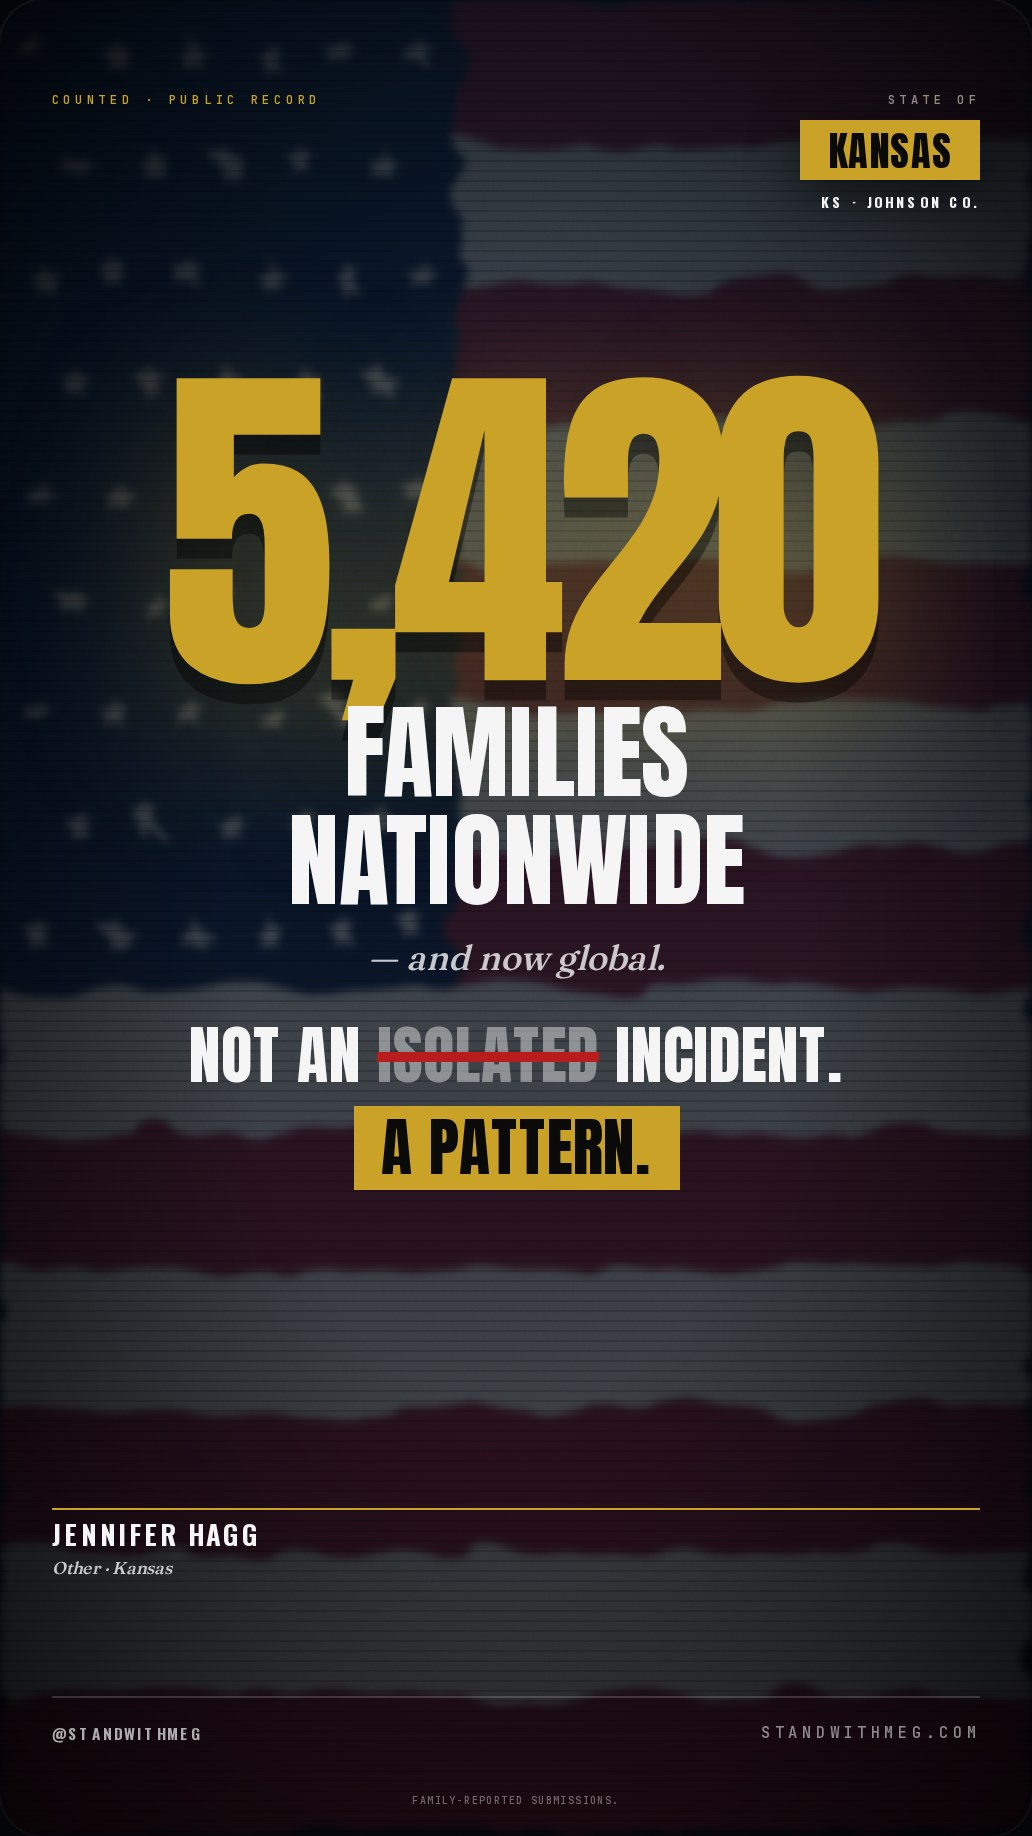
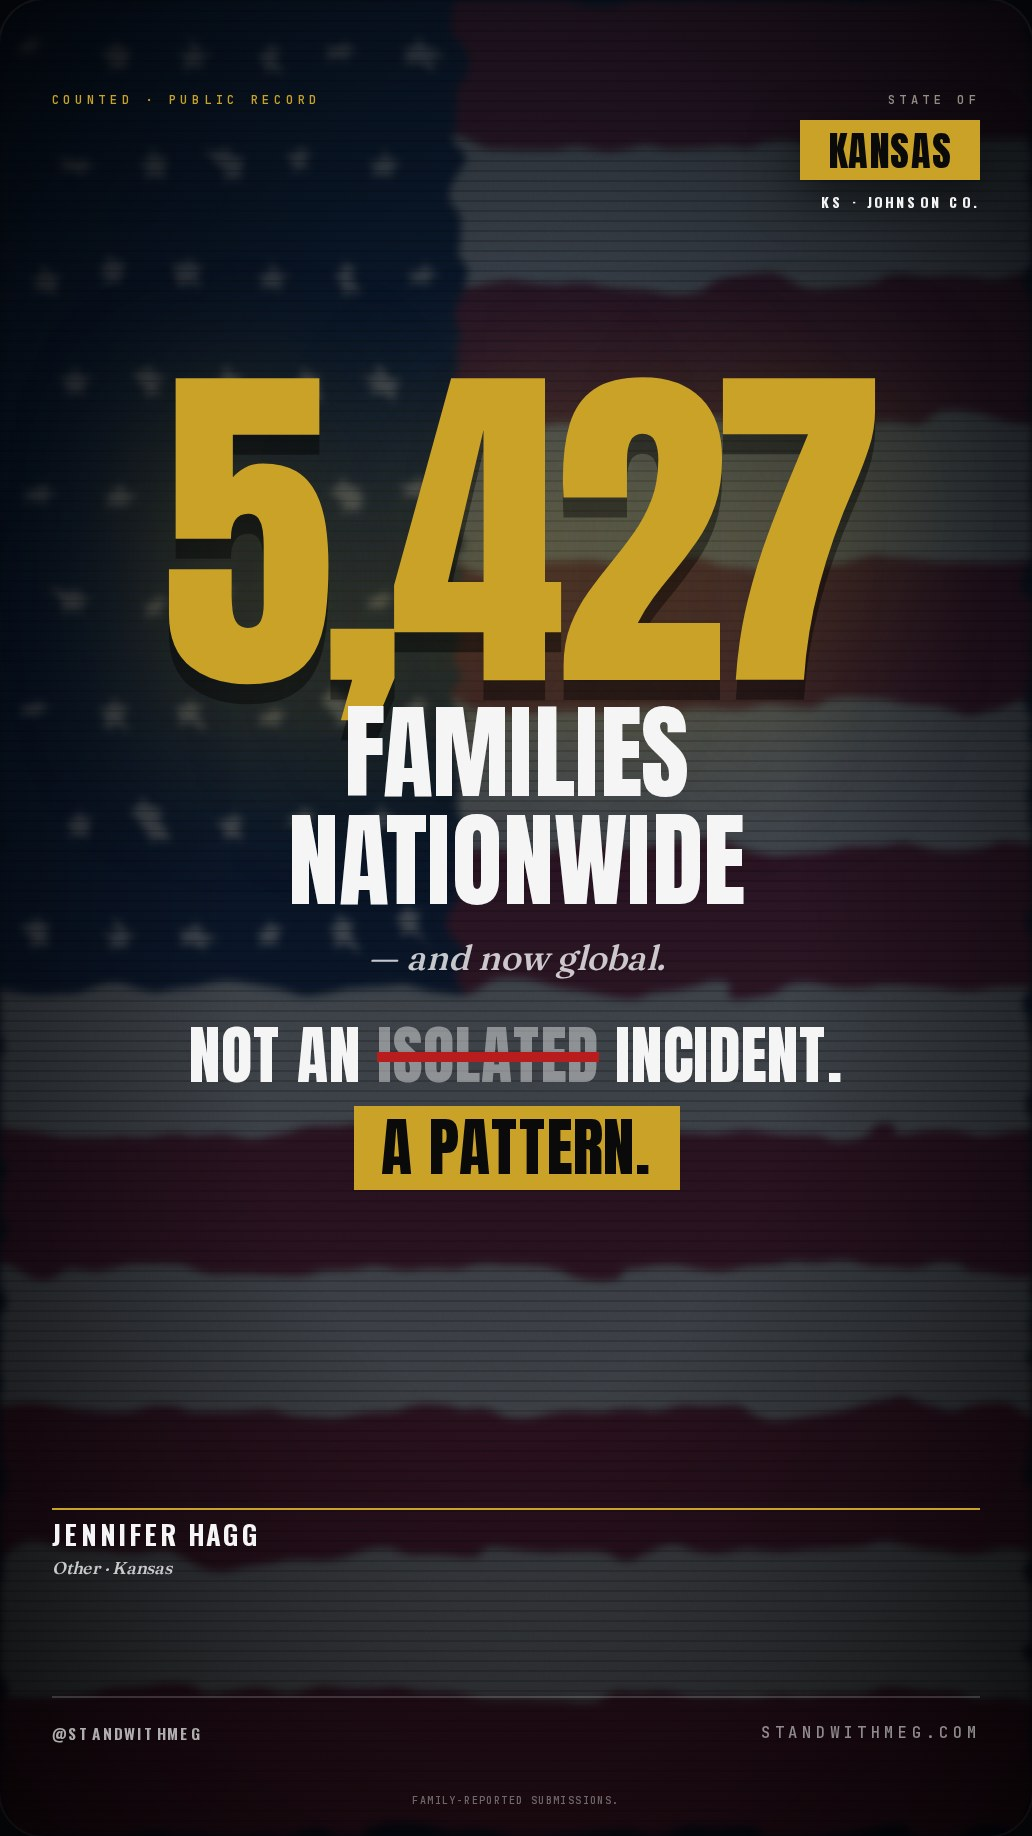
chore: auto-regenerate 10 report/share file(s) from live Supabase data

diff --git a/public/court-actors/ks/jennifer_hagg/share.html b/public/court-actors/ks/jennifer_hagg/share.html
@@ -570,7 +570,7 @@ html,body { background:#06070A; color:var(--white); font-family:Inter,system-ui,
 <main class="share-scroll">
 <section class="phone-frame">
 <article class="frame frame-image" id="frame-01">
-  <img class="frame-img" src="frame-01.jpg?v=ad5789bd25" alt="Jennifer Hagg share slide 1 of 7">
+  <img class="frame-img" src="frame-01.jpg?v=4fc40f298b" alt="Jennifer Hagg share slide 1 of 7">
 </article>
 
 <div class="frame-actions" aria-label="Frame 1 actions">
@@ -580,7 +580,7 @@ html,body { background:#06070A; color:var(--white); font-family:Inter,system-ui,
 </section>
 <section class="phone-frame">
 <article class="frame frame-image" id="frame-02">
-  <img class="frame-img" src="frame-02.jpg?v=519f377a9c" alt="Jennifer Hagg share slide 2 of 7">
+  <img class="frame-img" src="frame-02.jpg?v=3e2492c4fb" alt="Jennifer Hagg share slide 2 of 7">
 </article>
 
 <div class="frame-actions" aria-label="Frame 2 actions">
@@ -590,7 +590,7 @@ html,body { background:#06070A; color:var(--white); font-family:Inter,system-ui,
 </section>
 <section class="phone-frame">
 <article class="frame frame-image" id="frame-03">
-  <img class="frame-img" src="frame-03.jpg?v=4cb5829ccc" alt="Jennifer Hagg share slide 3 of 7">
+  <img class="frame-img" src="frame-03.jpg?v=3ae13f78eb" alt="Jennifer Hagg share slide 3 of 7">
 </article>
 
 <div class="frame-actions" aria-label="Frame 3 actions">
@@ -610,7 +610,7 @@ html,body { background:#06070A; color:var(--white); font-family:Inter,system-ui,
 </section>
 <section class="phone-frame">
 <article class="frame frame-image" id="frame-05">
-  <img class="frame-img" src="frame-05.jpg?v=077da4b968" alt="Jennifer Hagg share slide 5 of 7">
+  <img class="frame-img" src="frame-05.jpg?v=c77811814c" alt="Jennifer Hagg share slide 5 of 7">
 </article>
 
 <div class="frame-actions" aria-label="Frame 5 actions">
@@ -620,7 +620,7 @@ html,body { background:#06070A; color:var(--white); font-family:Inter,system-ui,
 </section>
 <section class="phone-frame">
 <article class="frame frame-image" id="frame-06">
-  <img class="frame-img" src="frame-06.jpg?v=a7905deb9a" alt="Jennifer Hagg share slide 6 of 7">
+  <img class="frame-img" src="frame-06.jpg?v=f0d6ae575e" alt="Jennifer Hagg share slide 6 of 7">
 </article>
 
 <div class="frame-actions" aria-label="Frame 6 actions">
@@ -630,7 +630,7 @@ html,body { background:#06070A; color:var(--white); font-family:Inter,system-ui,
 </section>
 <section class="phone-frame">
 <article class="frame frame-image" id="frame-07">
-  <img class="frame-img" src="frame-07.jpg?v=70043dba07" alt="Jennifer Hagg share slide 7 of 7">
+  <img class="frame-img" src="frame-07.jpg?v=d5be65f60d" alt="Jennifer Hagg share slide 7 of 7">
 </article>
 
 <div class="frame-actions" aria-label="Frame 7 actions">
@@ -689,10 +689,10 @@ html,body { background:#06070A; color:var(--white); font-family:Inter,system-ui,
     <div class="display xl">JENNIFER<br><span class="gold">HAGG</span></div>
     <div class="f1-role">Other</div>
     <div class="f1-report-count">
-      <b>2</b>
+      <b>3</b>
       <span>families named this person on the public record</span>
     </div>
-    <div class="f1-state-count"><b>251</b> KS families in the Registry</div>
+    <div class="f1-state-count"><b>252</b> KS families in the Registry</div>
   </div>
 
 <div class="movement-foot">
@@ -816,7 +816,7 @@ html,body { background:#06070A; color:var(--white); font-family:Inter,system-ui,
   <div class="f6-stats">
     <div class="f6-stats-label">STATE OF KANSAS · LIVE STATS</div>
     <div class="f6-hero-stat">
-      <div class="f6-hero-n">251</div>
+      <div class="f6-hero-n">252</div>
       <div class="f6-hero-l">FAMILIES IN<br>THE REGISTRY</div>
     </div>
     <div class="stat-row">
@@ -824,7 +824,7 @@ html,body { background:#06070A; color:var(--white); font-family:Inter,system-ui,
       <span class="stat-l">MEDIAN FAMILY BURDEN</span>
     </div>
     <div class="stat-row">
-      <span class="stat-n">49.4%</span>
+      <span class="stat-n">49.6%</span>
       <span class="stat-l">PARENTS FORCED PRO SE</span>
     </div>
     <div class="stat-row">
@@ -890,7 +890,7 @@ html,body { background:#06070A; color:var(--white); font-family:Inter,system-ui,
 
   <div class="frame-tag">COUNTED · PUBLIC RECORD</div>
   <div class="f5-stack">
-    <div class="f5-mega-number">5,420</div>
+    <div class="f5-mega-number">5,427</div>
     <div class="f5-mega-label">FAMILIES<br>NATIONWIDE</div>
     <div class="f5-italic">— and now global.</div>
     <div class="f5-pattern">
@@ -1029,7 +1029,7 @@ html,body { background:#06070A; color:var(--white); font-family:Inter,system-ui,
     <span class="gold">MEG.</span>
   </div>
   <div class="f7-cta-text">
-    Join over <b class="f7-count">5,420</b><br>
+    Join over <b class="f7-count">5,427</b><br>
     families nationwide &amp; global<br>
     exposing the truth.
   </div>
